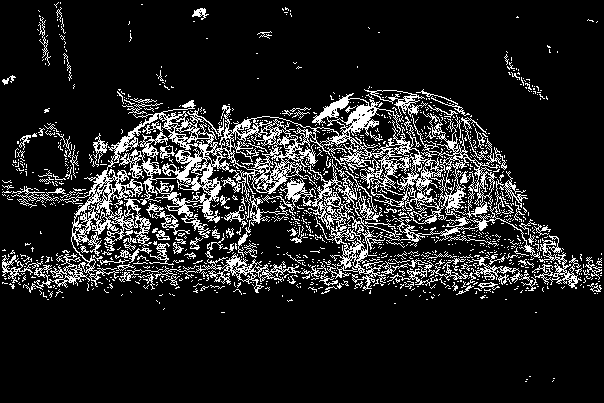
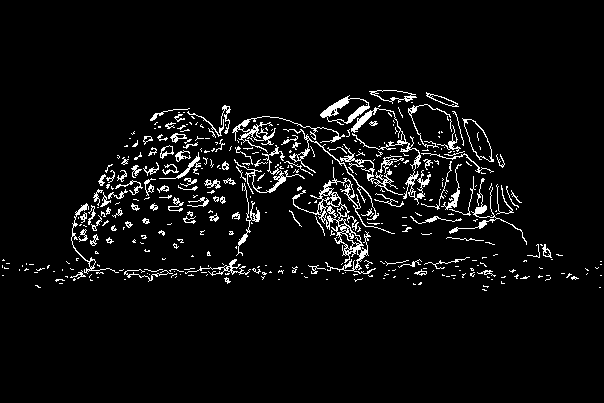
v.0.7.1 small fix

diff --git a/CannyProject/CannyProject/MainForm.cs b/CannyProject/CannyProject/MainForm.cs
@@ -70,9 +70,9 @@ namespace CannyProject
                 uiGnhPictureBox.Image = cannyData.GetDisplayedImage(cannyData.GNH);
                 uiGnlPictureBox.Image = cannyData.GetDisplayedImage(cannyData.GNL);
                 uiGradientPictureBox.Image = cannyData.GetDisplayedImage(cannyData.Gradient);
-                if (clearGradientIfOtherNeighborhoodKoeefficient.IsNeedApply)
+                if (twoImage != null)
                 {
-                    uiSpecialPictureBox.Image = cannyData.GetDisplayedImage(cannyData.SpecialMatrix);
+                    uiSpecialPictureBox.Image = cannyData.GetDisplayedImage(cannyData.DeffirentBeetweenTwoImagesMatrix);
                 }
                 var a = fileName.Substring(0, fileName.LastIndexOf('\\') + 1) + "canny_" +
                         fileName.Substring(fileName.LastIndexOf('\\') + 1);

diff --git a/CannyProject/CannyProject/Canny.cs b/CannyProject/CannyProject/Canny.cs
@@ -57,7 +57,7 @@ namespace CannyProject
 
         private int[,] MyTestColorExecute(Bitmap objInputImage)
         {
-            if (_colorKoeefficient.IsNeedApply)
+            if (_colorKoeefficient.IsNeedApply && _twoInputImage == null)
             {
                 var outEdgeMap = new int[objInputImage.Width, objInputImage.Height];
                 var edgeMap1 = new int[objInputImage.Width, objInputImage.Height];
